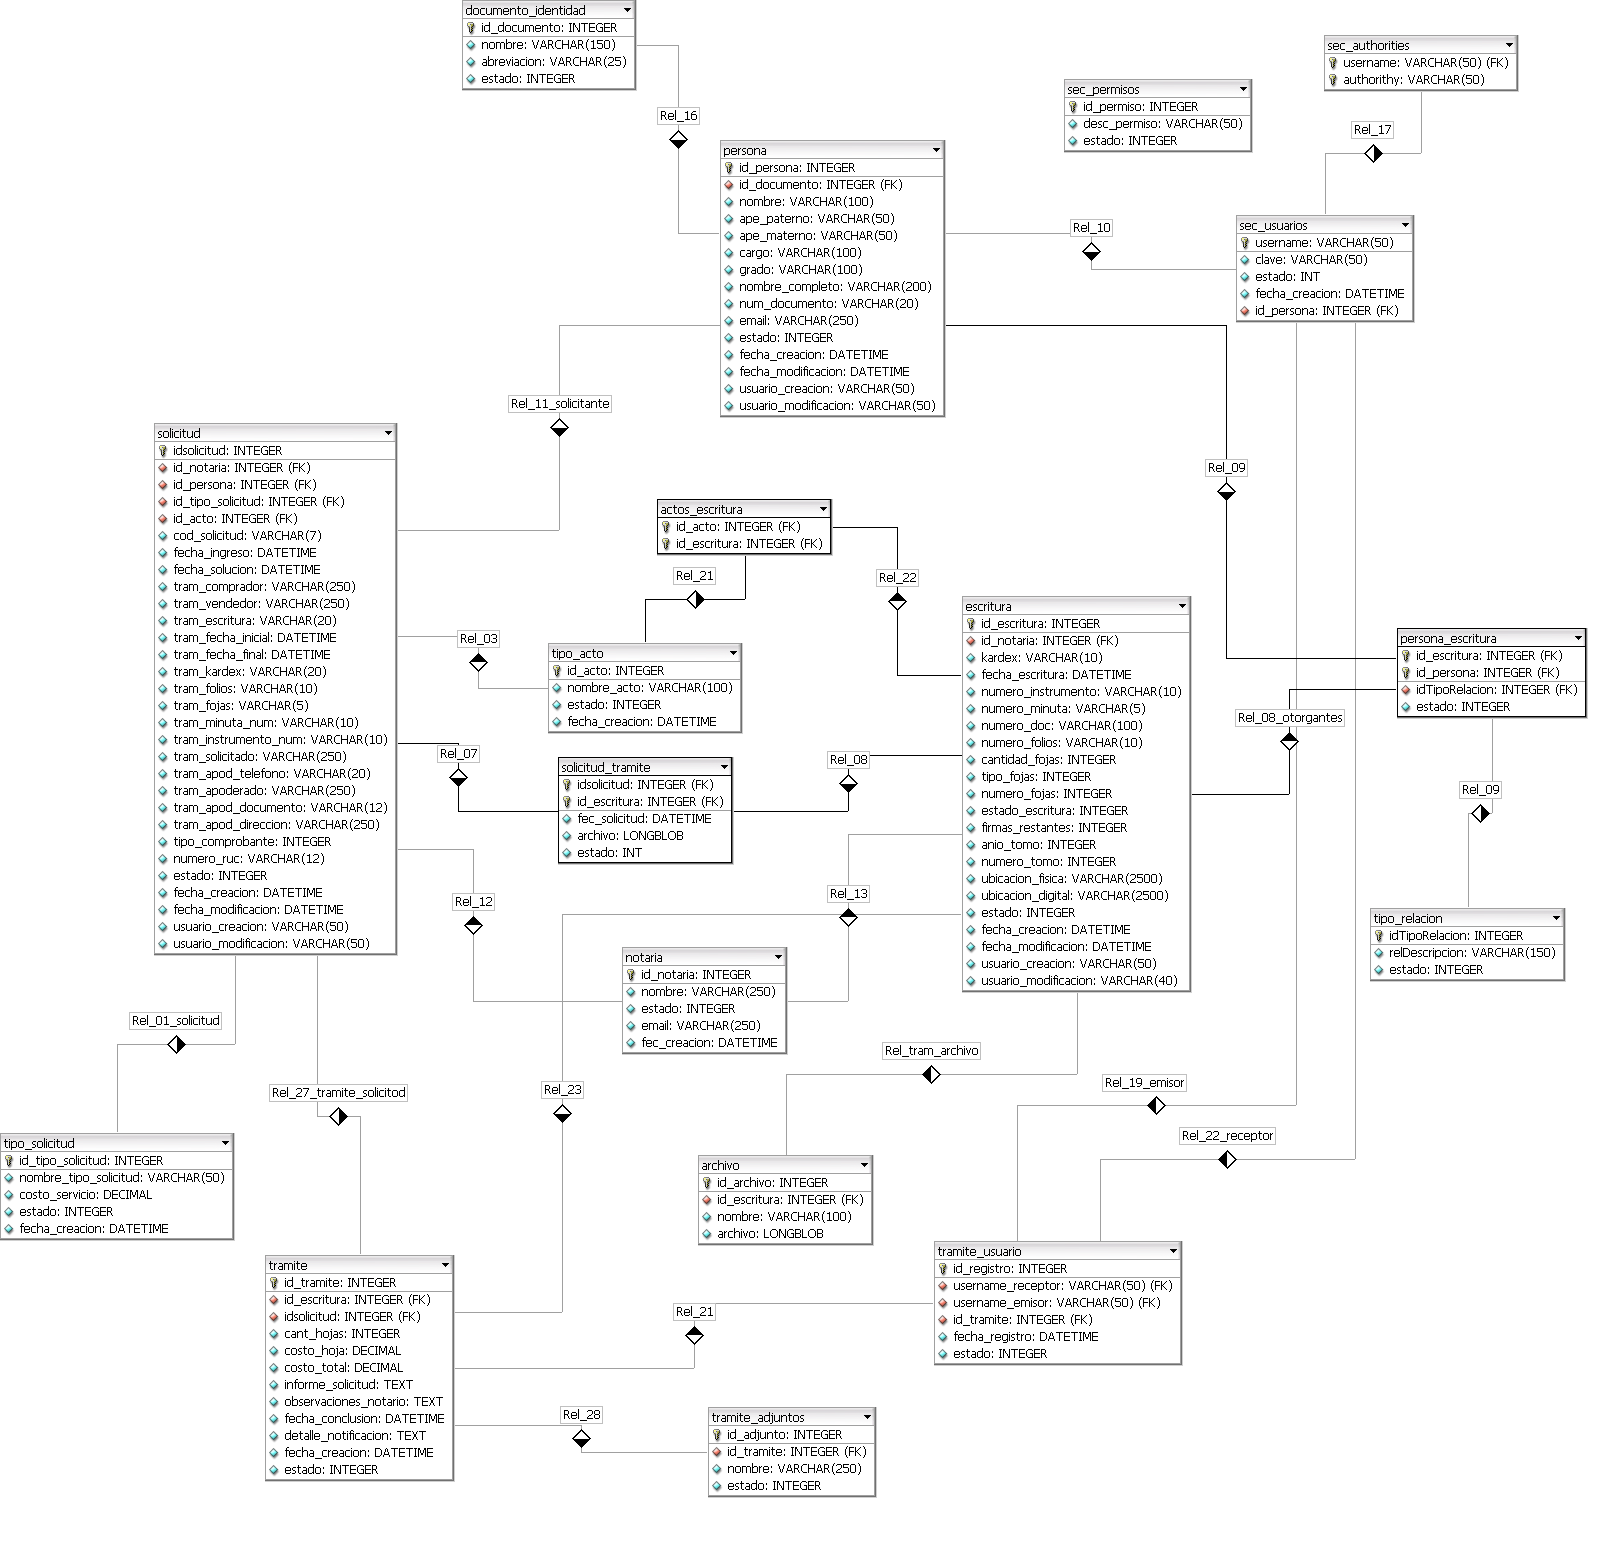
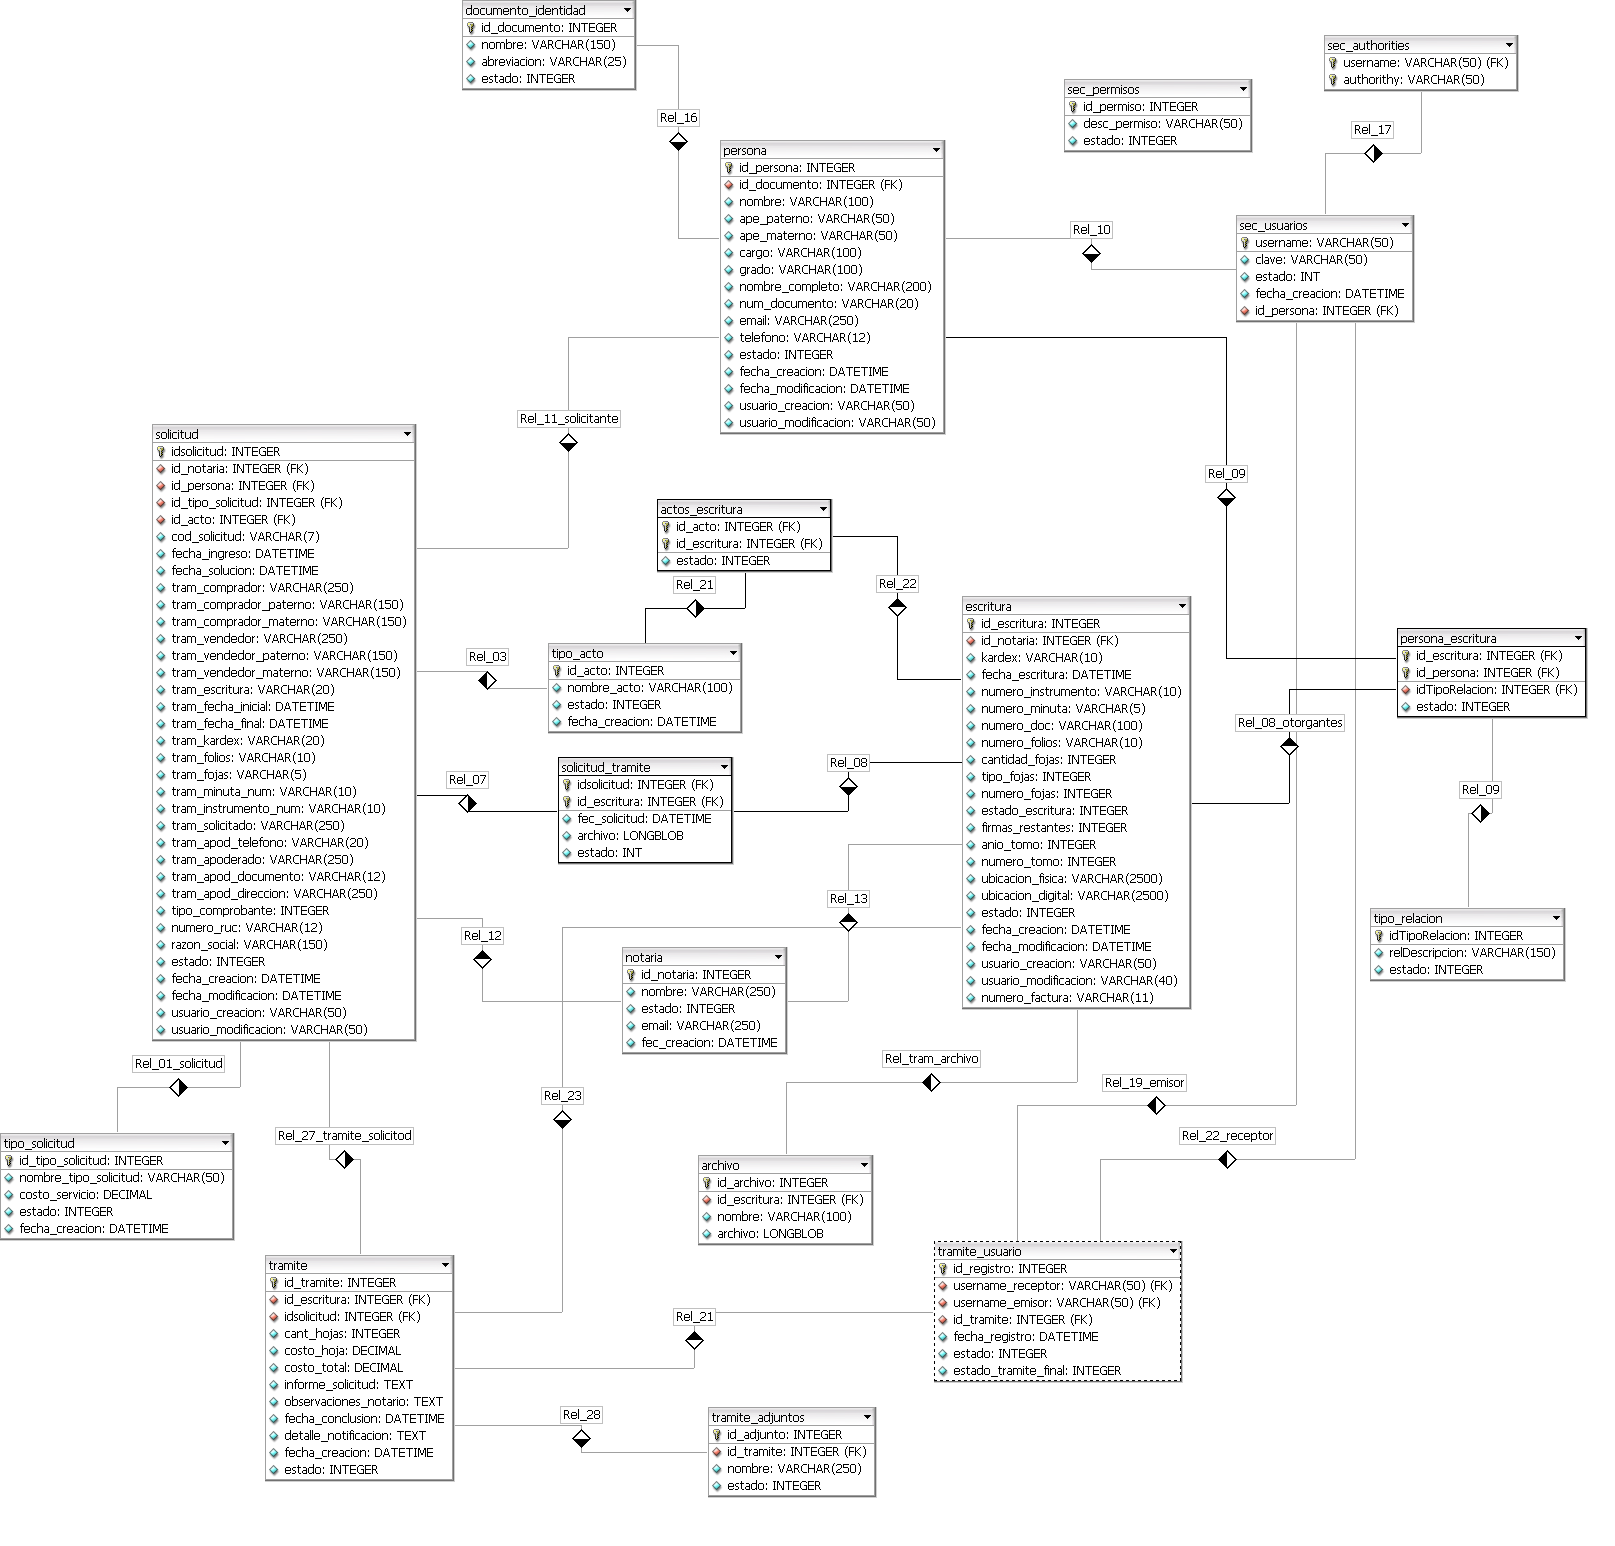
modulo del notario correjido. workflow de tramite corregido. pantalla para registro / modificacion de tramite corregida. modelo de dato actualizado. campo en tabla tramite_usuario. Uso de redirectView en los conrtrollers. validacion para no adjuntar en blanco

diff --git a/src/main/webapp/js/archivo.js b/src/main/webapp/js/archivo.js
@@ -67,3 +67,13 @@ $(document).undelegate('#btnFirmarNuevaEscritura', 'click').delegate('#btnFirmar
 	$('#firmaModal').modal('hide');
 });
 	
+$(document).undelegate('#btnUploadTramiteAdjunto', 'click').delegate('#btnUploadTramiteAdjunto', 'click', function(){
+	console.debug("validar que se haya seleccionado un archivo para cargar");
+	console.info('input del archivo = '+$('#file').val());
+	
+	if( $('#file').val() ){
+		$('#frmAdjuntar').submit();
+	}else{
+		alert('Seleccione un archivo');
+	}
+});

diff --git a/src/main/java/pe/org/cnl/gestiondoc/controller/TramiteController.java b/src/main/java/pe/org/cnl/gestiondoc/controller/TramiteController.java
@@ -18,6 +18,7 @@ import org.springframework.web.bind.annotation.SessionAttributes;
 import pe.org.cnl.gestiondoc.model.Tramite;
 import pe.org.cnl.gestiondoc.model.TramiteAdjunto;
 import pe.org.cnl.gestiondoc.model.TramiteUsuario;
+import pe.org.cnl.gestiondoc.model.Usuario;
 import pe.org.cnl.gestiondoc.service.TramiteService;
 import pe.org.cnl.gestiondoc.util.FileUpload;
 import pe.org.cnl.gestiondoc.util.Utiles;
@@ -46,9 +47,47 @@ public class TramiteController {
 		tr.setEstado( estado );
 		TramiteUsuario te = new TramiteUsuario();
 		te.setEstado(1);
+		
 		tr.addTramiteUsuario( te );
+		
 		model.put("tramite", new Tramite());
 		model.put("lTramites", tramiteService.buscar(tr));
+		
+		return "tramite/listaTramite";
+	}
+	/**
+	 * Bandeja de respondidos, el notario debe ver solo los tramites que el ha respondido. no importa el estado en que se encuentre el tramite 
+	 * ya que si se ha concluido igual creo que debe de verlos por su historico 
+	 * @param request
+	 * @param model
+	 * @return
+	 */
+	@RequestMapping("/respondidos.htm")
+	public String respondidos(HttpServletRequest request,ModelMap model){
+		logger.debug(" respondidos.html");
+		
+		Tramite tr = new Tramite();
+		TramiteUsuario te = new TramiteUsuario();
+		
+		if( Usuario.tienePermiso("ROLE_NOTARIO")){
+			//el notario ve todos los que el ha respondido sin importar si esten concluidos o no, por eso no seteo estado
+			te.setEstadoTramiteFinal(4);
+			te.setSecUsuario1( Usuario.getUsuarioBean() );	
+		}else{
+			//personal de archivo ve aqui solo los responndidos recientes, si el los deriva ya deja de verlos aqui 
+			tr.setEstado( 4 );	
+		}
+		
+		tr.addTramiteUsuario( te );
+		
+		//por si lo he invocado luego de un insert o update
+		if( "1".equals(request.getParameter("ex")) ){
+			model.put("mensaje", "El tramite ha sido respondido exitosamente");
+		}
+		
+		model.put("tramite", new Tramite());
+		model.put("lTramites", tramiteService.buscar(tr));
+		
 		return "tramite/listaTramite";
 	}
 	
@@ -75,10 +114,12 @@ public class TramiteController {
 			Integer ultimoEstado = tr.getEstado();
 			tramiteService.derivar( tr );
 			request.setAttribute("estado", ultimoEstado );
+			model.put("mensaje", "Se ha derivado correctamente");
 			return lista(request, model);
 			
 		} catch (Exception e) {
 			e.printStackTrace();
+			model.put("msgError", "" + e.getMessage());
 		}
 		return "tramite/listaTramite";
 	}
@@ -88,8 +129,19 @@ public class TramiteController {
 		try {
 			logger.debug(" preAtender "  + request.getParameter("cod") );
 			Tramite tr =  tramiteService.obtener( Integer.parseInt( request.getParameter("cod") ));
-			logger.debug(  "tramite" + tr );
+			//logger.debug(  "tramite" + tr );
+			
+			//por si lo he invocado luego de cargar un adjunto
+			if( "a".equals(request.getParameter("ex")) ){
+				model.put("mensaje", "Se ha cargado el archivo correctamente");
+			}
+			if( "a2".equals(request.getParameter("ex")) ){
+				model.put("msgError", "Error al cargar el archivo.");
+			}
+			
 			model.put("tramite", tr );
+			model.put("uploadForm", new FileUpload() );
+			
 		} catch (Exception e) {
 			e.printStackTrace();
 		}
@@ -108,7 +160,7 @@ public class TramiteController {
 			tu.setTramite( tr );
 			
 			tramiteService.registrarAtencion( tu );
-			model.put("mensaje", "El tramite ha sido creado exitosamente");
+			model.put("mensaje", "Los cambios han sido guardados exitosamente");
 			
 			tr = new Tramite();
 			tr.setEstado( 2 );
@@ -140,21 +192,17 @@ public class TramiteController {
 	
 	@RequestMapping(value="/cargarAdjunto.htm", method=RequestMethod.POST)
 	public String cargarAdjunto(@ModelAttribute("uploadForm") FileUpload formArchivo, HttpServletRequest request, ModelMap model){
-		logger.debug("grabo adjunto en BD");
+		logger.debug("cargarAdjunto -> grabo adjunto en BD");
 		 try{
 			 logger.debug(" id documento " + formArchivo.getIdDocumento());
 			 logger.debug(" file " + formArchivo.getFile());
 			 tramiteService.registrarArchivoEnDisco( formArchivo.getFile() , formArchivo.getIdDocumento() );
-            model.put("mensaje", "archivo cargado");
             
        	}catch(Exception ex) {
            logger.debug(ex.getMessage());
-       	   model.put("msgError","Error " + ex.getMessage());
-        }finally{
-        	model.put("uploadForm", new FileUpload() );
-            model.put("tramite",  tramiteService.obtener( formArchivo.getIdDocumento() ) );
+           return "redirect:/tramites/preatender.htm?cod="+formArchivo.getIdDocumento()+"&ex=a2";
         }
-        return "tramite/tramiteForm";
+		return "redirect:/tramites/preatender.htm?cod="+formArchivo.getIdDocumento()+"&ex=a";
 	}
 	
 	/* DESCARGA DE DOC*/
@@ -191,16 +239,9 @@ public class TramiteController {
 			tu.setTramite( tr );
 			
 			tramiteService.registrarRespuesta( tu );
-			model.put("mensaje", "El tramite ha sido creado exitosamente");
+			//model.addAttribute("mensaje", "El tramite ha sido respondido exitosamente");
 			
-			tr = new Tramite();
-			tr.setEstado( 4 );
-			TramiteUsuario te = new TramiteUsuario();
-			te.setEstado(1);
-			tr.addTramiteUsuario( te );
-			model.put("tramite", new Tramite());
-			model.put("lTramites", tramiteService.buscar(tr));
-			return "tramite/listaTramite";
+			return "redirect:/tramites/respondidos.htm?ex=1";
 			
 		} catch (Exception e) {
 			e.printStackTrace();
@@ -220,10 +261,10 @@ public class TramiteController {
 			
 			TramiteUsuario tu = new TramiteUsuario();
 			tu.setTramite( tr );
-			
-			tramiteService.registrarRespuesta( tu );
-			model.put("mensaje", "El tramite ha sido creado exitosamente");
-			
+			//tu.setEstadoTramiteFinal(5);
+			tramiteService.registrarNotificacion( tu );
+			model.put("mensaje", "El cliente ha sido notificado exitosamente");
+			//TODO cambiar por redirectView
 			tr = new Tramite();
 			tr.setEstado( 4 );
 			TramiteUsuario te = new TramiteUsuario();

diff --git a/src/main/java/pe/org/cnl/gestiondoc/service/impl/TramiteServiceImpl.java b/src/main/java/pe/org/cnl/gestiondoc/service/impl/TramiteServiceImpl.java
@@ -68,15 +68,34 @@ public class TramiteServiceImpl implements TramiteService {
 	@Override
 	public void registrarAtencion(TramiteUsuario tramite) {
 		
+		//movimiento de juan hacia juan
 		tramite.setSecUsuario1( Usuario.getUsuarioBean() );
-		tramite.setSecUsuario2( usuarioDao.obtenerUsuario( "gjara" ) );
+		tramite.setSecUsuario2( Usuario.getUsuarioBean() );
 		tramite.setEstado(1);
+		tramite.setEstadoTramiteFinal( ParametroUtil.EstadoTramite.ATENDIDO.value );
 		tramite.setFechaRegistro( new Date() );
 		tramiteDAO.registrarMovimiento( tramite );
 		
-		tramite.getTramite().setEstado( 2 );		
+		tramite.getTramite().setEstado( ParametroUtil.EstadoTramite.ATENDIDO.value );
 		tramiteDAO.registrar( tramite.getTramite() );
 		
+	}
+	
+	@Override
+	public void derivar(Tramite tr) {
+		
+		TramiteUsuario tramite = new TramiteUsuario();
+		tramite.setTramite( tr );
+		tramite.setSecUsuario1( Usuario.getUsuarioBean() );
+		tramite.setSecUsuario2( usuarioDao.obtenerUsuario( "gjara" ) );
+		tramite.setEstado(1);
+		tramite.setEstadoTramiteFinal( ParametroUtil.EstadoTramite.DERIVADO.value );
+		tramite.setFechaRegistro( new Date() );
+		tramiteDAO.registrarMovimiento( tramite );
+		
+		//movimiento de Juan hacia Jara 
+		tr.setEstado( ParametroUtil.EstadoTramite.DERIVADO.value );
+		tramiteDAO.derivar( tr );
 	}
 
 	@Override
@@ -85,16 +104,25 @@ public class TramiteServiceImpl implements TramiteService {
 		tramite.setSecUsuario1( Usuario.getUsuarioBean() );
 		tramite.setSecUsuario2( usuarioDao.obtenerUsuario( "jculqui" ) );
 		tramite.setEstado(1);
+		tramite.setEstadoTramiteFinal( ParametroUtil.EstadoTramite.RESPONDIDO.value );
 		tramite.setFechaRegistro( new Date() );
 		tramiteDAO.registrarMovimiento( tramite );
 		
-		tramite.getTramite().setEstado( 4 );		
+		tramite.getTramite().setEstado( ParametroUtil.EstadoTramite.RESPONDIDO.value );		
 		tramiteDAO.registrar( tramite.getTramite() );
 	}
 
 	@Override
 	public void registrarNotificacion(TramiteUsuario tramite) {
 
+		tramite.setSecUsuario1( Usuario.getUsuarioBean() );
+		tramite.setSecUsuario2( Usuario.getUsuarioBean() );
+		tramite.setEstado(1);
+		tramite.setEstadoTramiteFinal( ParametroUtil.EstadoTramite.NOTIFICADO.value );
+		tramite.setFechaRegistro( new Date() );
+		tramiteDAO.registrarMovimiento( tramite );
+		
+		tramite.getTramite().setEstado( ParametroUtil.EstadoTramite.NOTIFICADO.value );		
 		tramiteDAO.registrar( tramite.getTramite() );
 		
 	}
@@ -143,11 +171,4 @@ public class TramiteServiceImpl implements TramiteService {
 		
 		return file;
 	}
-
-	@Override
-	public void derivar(Tramite tr) {
-		tr.setEstado( tr.getEstado()+1 );
-		tramiteDAO.derivar( tr );
-	}
-
 }

diff --git a/src/main/java/pe/org/cnl/gestiondoc/dao/impl/TramiteDAOImpl.java b/src/main/java/pe/org/cnl/gestiondoc/dao/impl/TramiteDAOImpl.java
@@ -40,12 +40,25 @@ public class TramiteDAOImpl implements TramiteDAO {
 			}
 			
 			if( tramite.getTramiteUsuarios() != null && !tramite.getTramiteUsuarios().isEmpty() ) {
-				logger.debug("tramiteUsuarios.estado="+tramite.getTramiteUsuarios().get(0).getEstado());
-				criteria.createAlias("tramiteUsuarios", "tu")
-				.add( Restrictions.eq("tu.estado", 1 ) );
+				TramiteUsuario tu = tramite.getTramiteUsuarios().get(0); 
+				Criteria tramUser = criteria.createAlias("tramiteUsuarios", "tu");
+				if( tu.getEstado() > 0 ){
+					logger.debug(" tr_usr.estado="+ tu.getEstado());
+					tramUser.add( Restrictions.eq("tu.estado", tu.getEstado()) );	
+				}
+				if( tu.getEstadoTramiteFinal() > 0 ){
+					logger.debug(" tr_usr.estadoTramiteFinal="+ tu.getEstadoTramiteFinal());
+					tramUser.add( Restrictions.eq("tu.estadoTramiteFinal", tu.getEstadoTramiteFinal()) );	
+				}
+				if( tu.getSecUsuario1() != null ){
+					logger.debug(" emisor="+ tu.getSecUsuario1().getUsername() );
+					tramUser.add( Restrictions.eq("tu.secUsuario1.username", tu.getSecUsuario1().getUsername() ) );	
+				}
 			}
-			logger.debug("estado="+  tramite.getEstado() );
-			criteria.add( Restrictions.eq("estado", tramite.getEstado() ) );
+			if( tramite.getEstado() > 0){
+				logger.debug("estado="+  tramite.getEstado() );
+				criteria.add( Restrictions.eq("estado", tramite.getEstado() ) );	
+			}
 			criteria.addOrder( Order.desc("fechaCreacion") );
 		}				
 		criteria.setResultTransformer(Criteria.DISTINCT_ROOT_ENTITY);
@@ -59,6 +72,11 @@ public class TramiteDAOImpl implements TramiteDAO {
 
 	@Override
 	public void registrarMovimiento(TramiteUsuario tramiteUsuario) {
+		
+		Query query = this.sessionFactory.getCurrentSession().createQuery(" update TramiteUsuario e set estado=0 where e.tramite.idTramite =:id ")
+		        .setInteger("id", tramiteUsuario.getTramite().getIdTramite() );
+		        query.executeUpdate();
+		        
 		this.sessionFactory.getCurrentSession().saveOrUpdate(tramiteUsuario);
 	}
 	

diff --git a/src/main/java/pe/org/cnl/gestiondoc/model/TramiteUsuario.java b/src/main/java/pe/org/cnl/gestiondoc/model/TramiteUsuario.java
@@ -21,6 +21,9 @@ public class TramiteUsuario implements Serializable {
 	private int idRegistro;
 
 	private int estado;
+	
+	@Column(name="estado_tramite_final")
+	private int estadoTramiteFinal;
 
 	@Temporal(TemporalType.TIMESTAMP)
 	@Column(name="fecha_registro")
@@ -72,6 +75,10 @@ public class TramiteUsuario implements Serializable {
 		return this.secUsuario1;
 	}
 
+	/**
+	 * Usuario Emisor
+	 * @param secUsuario1 usuario emisor del tramite
+	 */
 	public void setSecUsuario1(Usuario secUsuario1) {
 		this.secUsuario1 = secUsuario1;
 	}
@@ -87,9 +94,20 @@ public class TramiteUsuario implements Serializable {
 	public Usuario getSecUsuario2() {
 		return this.secUsuario2;
 	}
-
+	/**
+	 * 
+	 * @param username_receptor El usuario receptor del tramite
+	 */
 	public void setSecUsuario2(Usuario secUsuario2) {
 		this.secUsuario2 = secUsuario2;
+	}
+
+	public int getEstadoTramiteFinal() {
+		return estadoTramiteFinal;
+	}
+
+	public void setEstadoTramiteFinal(int estadoTramiteFinal) {
+		this.estadoTramiteFinal = estadoTramiteFinal;
 	}
 
 }

diff --git a/src/main/java/pe/org/cnl/gestiondoc/util/ParametroUtil.java b/src/main/java/pe/org/cnl/gestiondoc/util/ParametroUtil.java
@@ -40,6 +40,14 @@ public class ParametroUtil {
 		public static final int COLEGIO = 4;
 	}
 	
-	
+
+	public static enum EstadoTramite {
+		REGISTRADO(1), ATENDIDO(2), DERIVADO(3), RESPONDIDO(4), NOTIFICADO(5), CONCLUIDO(6);
+		public int value;
+ 
+		private EstadoTramite(int value) {
+			this.value = value;
+		}
+	}
 }
 
